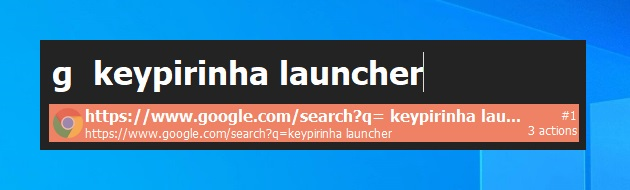
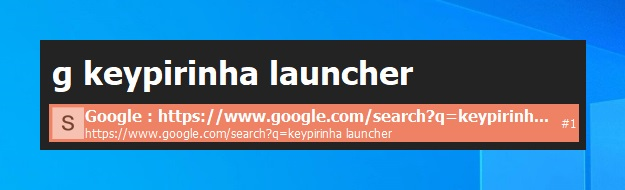
Added private_mode and new_windows, multiword engine  names.

Changed region(s): [[0.0608, 0.2105, 0.9424, 1.0], [0.0608, 0.2895, 0.6992, 0.5], [0.76, 0.7895, 0.7904, 1.0]]

diff --git a/src/easysearch.py b/src/easysearch.py
@@ -3,18 +3,22 @@ import keypirinha as kp
 import keypirinha_util as kpu
 
 class EasySearch(kp.Plugin):
-    SECTION = 'engines'
+    SECTION_ENGINE = 'engines'
+
+    SECTION_MAIN = 'main'
 
     REGEX_INPUT = r'(\S+)\s(.+)'
 
     REGEX_ENGINES = r'(\S+)\s(.+)'
 
-    ITEM_CAT = kp.ItemCategory.URL
+    ITEM_CAT = kp.ItemCategory.USER_BASE + 1
 
     def __init__(self):
         super().__init__()
+        self._debug = True
 
     def on_start(self):
+        self._load_settings()
         self._gather_engines()
 
     def on_catalog(self):
@@ -28,28 +32,29 @@ class EasySearch(kp.Plugin):
 
         for engine in self.engines:
             if engine == input.group(1):
-                setting = self._get_setting(engine)
+                setting = self.settings.get_stripped(engine, section = self.SECTION_ENGINE, fallback = '')
                 url = re.search(self.REGEX_ENGINES, setting)
 
                 if len(url.groups()) == 2:
-                    name, link = url.groups()
+                    name, target = url.groups()
                     term = input.group(2)
-                    target = link
-                    link = link.replace("%s", term)
-                    target = target.replace("%s", term.strip())
+                    name = name.strip().replace("_", " ")
+                    target = target.strip().format(q=term.strip())
 
-                    suggestion = self._set_suggestion(link, target, name)
-                    self.set_suggestions(suggestion)
+                    self.dbg(target)
+                    suggestion = self._set_suggestion(name, target)
+                    self.set_suggestions(suggestion, kp.Match.FUZZY, kp.Sort.TARGET_ASC)
 
-    def _set_suggestion(self, corrected_url, target, name):
+    def _set_suggestion(self, name, target):
         return [
             self.create_item(
-                category=self.ITEM_CAT,
-                label=corrected_url,
-                short_desc=target,
-                target=target,
-                args_hint=kp.ItemArgsHint.FORBIDDEN,
-                hit_hint=kp.ItemHitHint.IGNORE
+                category = self.ITEM_CAT,
+                label = name + ' : ' + target,
+                short_desc = target,
+                target = target,
+                args_hint = kp.ItemArgsHint.FORBIDDEN,
+                hit_hint = kp.ItemHitHint.IGNORE,
+                loop_on_suggest = True
             )
         ]
 
@@ -67,20 +72,17 @@ class EasySearch(kp.Plugin):
             return
 
         kpu.web_browser_command(
-            private_mode=False,
-            new_window=False,
-            url=item.target(),
-            execute=True
+            private_mode = self.settings.get_bool('private_mode', section = self.SECTION_MAIN, fallback = False),
+            new_window = self.settings.get_bool('new_window', section = self.SECTION_MAIN, fallback = False),
+            url = item.target(),
+            execute = True
         )
 
-    def _gather_engines(self):
-        self.engines = self.load_settings().keys(self.SECTION)
+    def _load_settings(self):
+        self.settings = self.load_settings()
 
-    def _get_setting(self, setting):
-        return self.load_settings().get_stripped(
-            setting,
-            section=self.SECTION,
-            fallback=self.SECTION)
+    def _gather_engines(self):
+        self.engines = self.settings.keys(self.SECTION_ENGINE)
 
     def on_events(self, flags):
         if flags & kp.Events.PACKCONFIG:

diff --git a/README.md b/README.md
@@ -32,22 +32,22 @@ move it to the `InstalledPackage` folder located at:
 2. Add the desired web search URLs.
 * The syntax for the URL entry should be:
     ```
-    [keyword] = [Search Engine name] [Search Engine URL with %s as a search term]
+    [distinct keyword] = [Search Engine name] [Search Engine URL with %s as a search term]
 
     e.g.
 
-    g = Google https://www.google.com/search?q=%s
-    php = PHP.net http://php.net/manual-lookup.php?pattern=%s
-    gh = Github https://github.com/search?utf8=%E2%9C%93&q=%s
+    g = Google https://www.google.com/search?q={q}
+    php = PHP.net http://php.net/manual-lookup.php?pattern={q}
+    gh = Github https://github.com/search?utf8=%E2%9C%93&q={q}
     ```
-* All the fields in the above syntax are REQUIRED (, though the name field is not currently used).
+* All the fields in the above syntax are REQUIRED.
 
 ![EasySearch config file](./images/2019-01-07_22-06-10.jpg "EasySearch config file")
 
 3. Invoke Keypirinha and put the search engine keyword and the search term.
 * The syntax for the usage should be:
     ```
-    [keyword]  [Search term]
+    [keyword] [Search term (can contain spaces)]
 
     e.g.
 
@@ -57,11 +57,19 @@ move it to the `InstalledPackage` folder located at:
 ![Keypirinha invoke](./images/2019-01-07_22-02-09.jpg "Keypirinha invoke")
 
 
-## Attention
-Please keep in mind that while using the plugin, **double spaces has to be entered** between the search engine keyword and search term to diffferentiate. It **won't work** for a single space.
+## Quirks
+As the suggestions are presented according to the **fuzzy search**, please keep in mind that the search-keyword MUST NOT be unrecognizably different than the search engine name.
+
+i.e. Setting a keyword `xyz` for `Github` won't work, (Obviously!) but `gh` may work.
 
 
 ## Change Log
+
+### v1.1.0
+* `private_mode` and `new_window` settings added.
+* Multiword name now works. Has to be separated by an underscore ( _ ).
+* Single space now works for all the cases.
+* Some refactoring.
 
 ### v1.0.0
 * Updated README and added screenshots.
